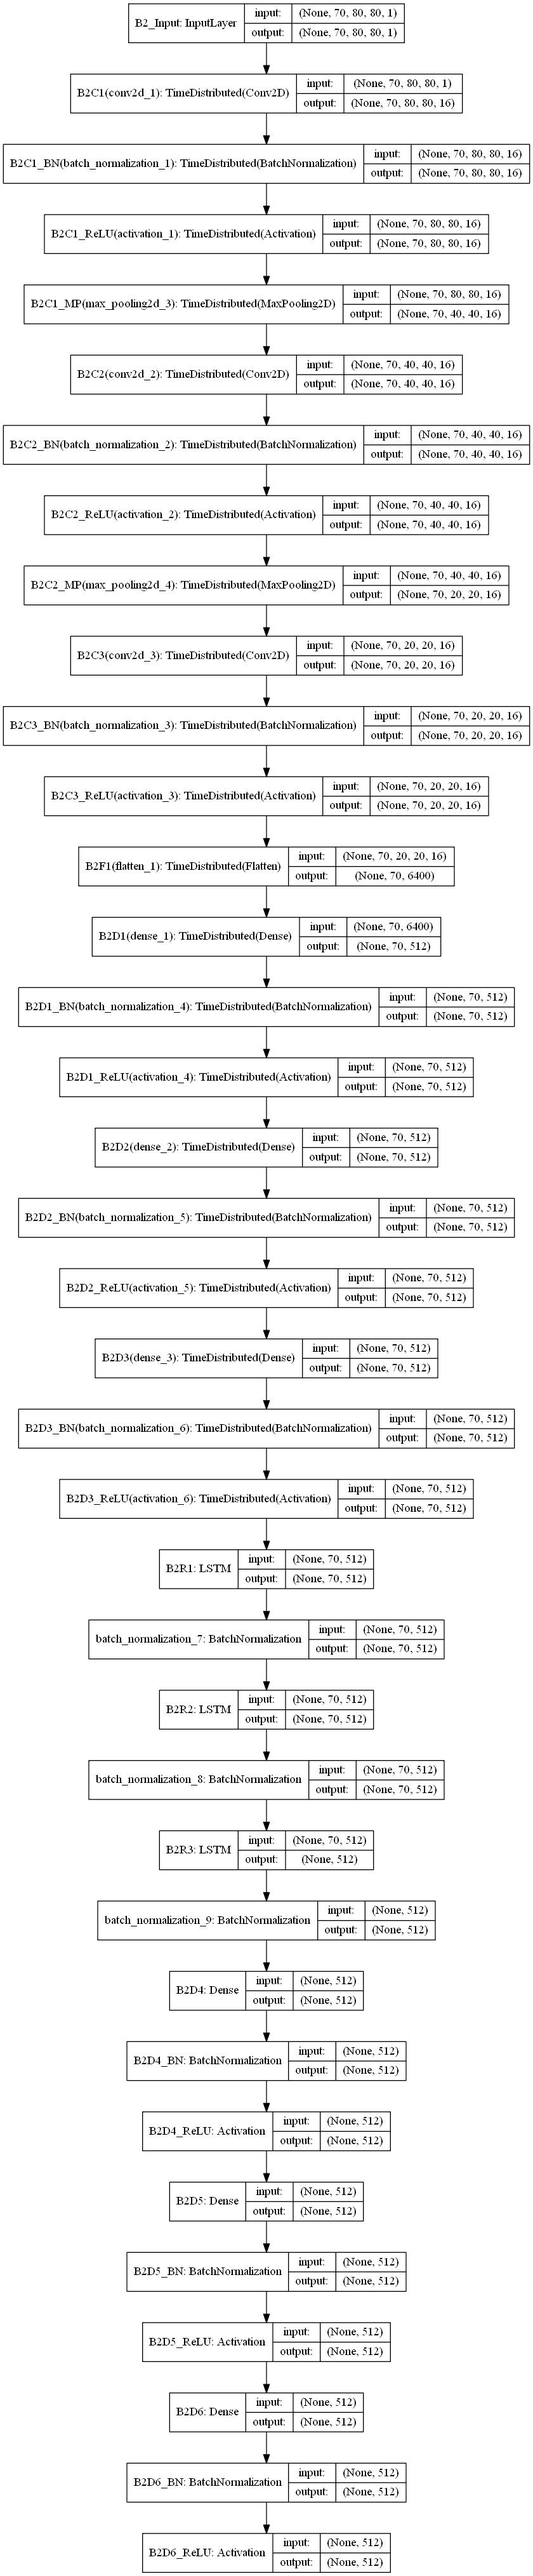
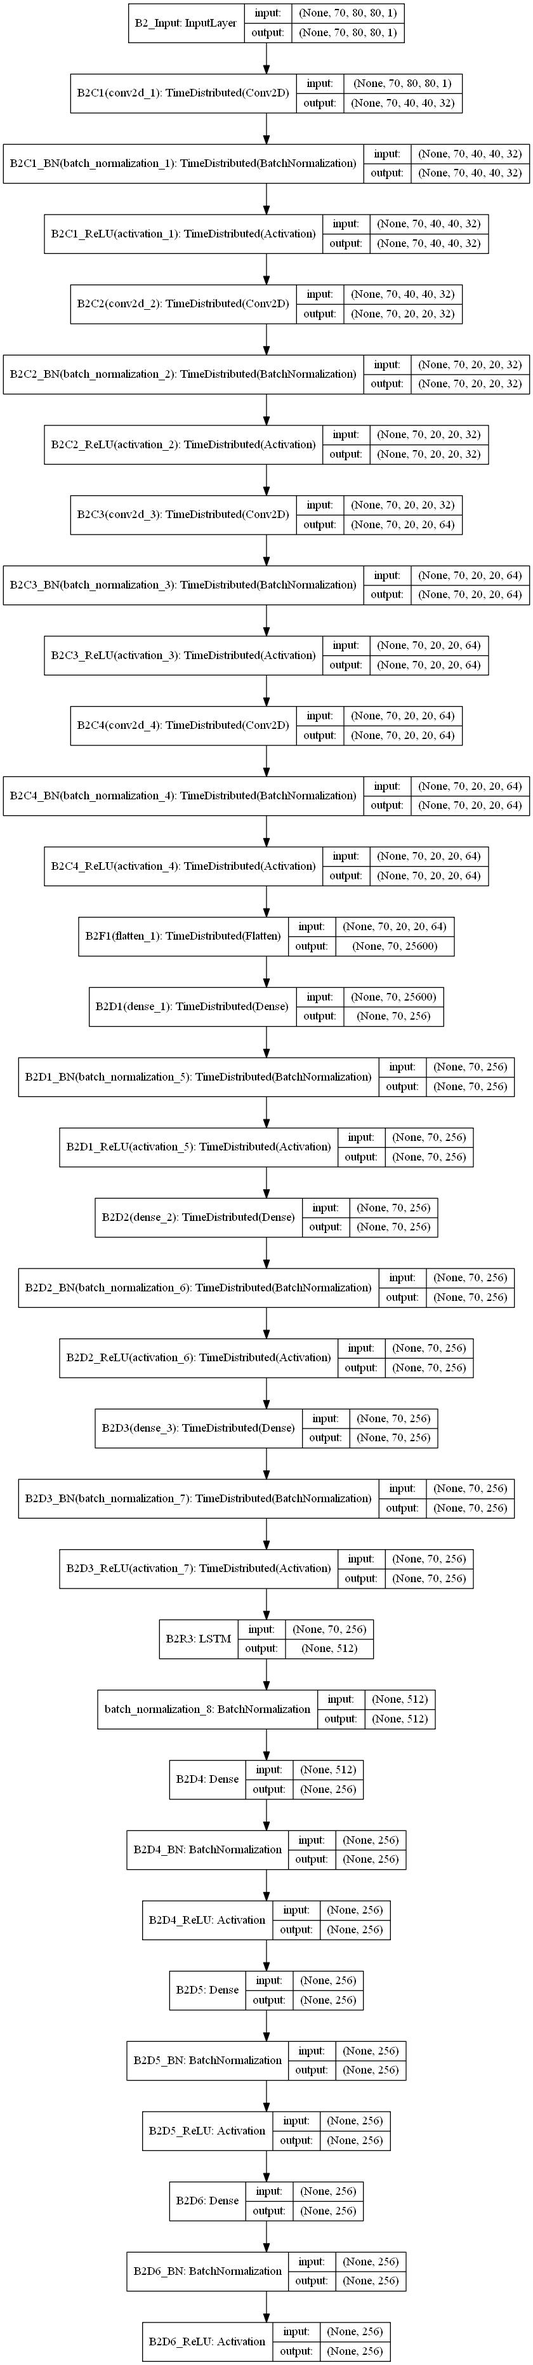
b2 testing

diff --git a/Project_DNN/scripts/models.py b/Project_DNN/scripts/models.py
@@ -85,48 +85,50 @@ def Layer_B2():
     b2_dropout = 0.00
 
     b2_input = Input(shape=(70, 80, 80, 1), name='B2_Input')
-    b2 = TimeDistributed(Conv2D(filters=16,
-                                kernel_size=3,
-                                strides=1,
+    b2 = TimeDistributed(Conv2D(filters=32,
+                                kernel_size=5,
+                                strides=2,
                                 padding='same',
                                 data_format='channels_last'),
                                 name='B2C1')(b2_input)
     b2 = _add_BN_ReLU_SpDO_TD(b2, b2_dropout)
-    b2 = TimeDistributed(MaxPool2D(), name='B2C1_MP')(b2)
-    b2 = TimeDistributed(Conv2D(filters=16,
-                                kernel_size=3,
-                                strides=1,
+    #b2 = TimeDistributed(MaxPool2D(), name='B2C1_MP')(b2)
+    b2 = TimeDistributed(Conv2D(filters=32,
+                                kernel_size=5,
+                                strides=2,
                                 padding='same'),
                                 name='B2C2')(b2)
     b2 = _add_BN_ReLU_SpDO_TD(b2, b2_dropout)
-    b2 = TimeDistributed(MaxPool2D(), name='B2C2_MP')(b2)
-    b2 = TimeDistributed(Conv2D(filters=16,
+    #b2 = TimeDistributed(MaxPool2D(), name='B2C2_MP')(b2)
+    b2 = TimeDistributed(Conv2D(filters=64,
                                 kernel_size=3,
                                 strides=1,
                                 padding='same',
                                 activation='relu'),
                                 name='B2C3')(b2)
     b2 = _add_BN_ReLU_SpDO_TD(b2, b2_dropout)
+    #b2 = TimeDistributed(MaxPool2D(), name='B2C2_MP')(b2)
+    b2 = TimeDistributed(Conv2D(filters=64,
+                                kernel_size=3,
+                                strides=1,
+                                padding='same',
+                                activation='relu'),
+                                name='B2C4')(b2)
+    b2 = _add_BN_ReLU_SpDO_TD(b2, b2_dropout)
     b2 = TimeDistributed(Flatten(), name="B2F1")(b2)
-
-    b2 = TimeDistributed(Dense(512), name="B2D1")(b2)
+    b2 = TimeDistributed(Dense(256), name="B2D1")(b2)
     b2 = _add_BN_ReLU_DO_TD(b2, b2_dropout)
-    b2 = TimeDistributed(Dense(512), name="B2D2")(b2)
+    b2 = TimeDistributed(Dense(256), name="B2D2")(b2)
     b2 = _add_BN_ReLU_DO_TD(b2, b2_dropout)
-    b2 = TimeDistributed(Dense(512), name="B2D3")(b2)
+    b2 = TimeDistributed(Dense(256), name="B2D3")(b2)
     b2 = _add_BN_ReLU_DO_TD(b2, b2_dropout)
-    b2 = LSTM(512, return_sequences=True, name='B2R1')(b2)
+    b2 = LSTM(512, name='B2R3')(b2)    
     b2 = BatchNormalization()(b2)
-    b2 = LSTM(512, return_sequences=True,  name='B2R2')(b2)
-    b2 = BatchNormalization()(b2)
-    b2 = LSTM(512, name='B2R3')(b2)
-    
-    b2 = BatchNormalization()(b2)
-    b2 = Dense(512, name='B2D4')(b2)
+    b2 = Dense(256, name='B2D4')(b2)
     b2 = _add_BN_ReLU_DO(b2, b2_dropout)
-    b2 = Dense(512, name='B2D5')(b2)
+    b2 = Dense(256, name='B2D5')(b2)
     b2 = _add_BN_ReLU_DO(b2, b2_dropout)
-    b2 = Dense(512, name='B2D6')(b2)
+    b2 = Dense(256, name='B2D6')(b2)
     b2 = _add_BN_ReLU_DO(b2, b2_dropout)
     
     b2_output = b2

diff --git a/Project_DNN/scripts/dataFormater.py b/Project_DNN/scripts/dataFormater.py
@@ -140,7 +140,7 @@ def ROI_loadDataListAll(rootPath, isShow, isShuffle):
 
     spointList, roiSampleList, labelList = \
         _ROI_loadDataList(samplePathList, isShow)
-    
+
     if isShuffle:
         spointList, roiSampleList, labelList = \
             shuffleDataset(spointList, roiSampleList, labelList)
@@ -159,9 +159,11 @@ def _ROI_loadDataList(samplePathList, isShow):
     for path in samplePathList:
         spoint, images, label = \
             ROI_loadData(path, isShow)
-        spointSamples.append(spoint)
-        imageSamples.append(images)
-        labelSamples.append(label)
+
+        if len(images) is not 0:
+            spointSamples.append(spoint)
+            imageSamples.append(images)
+            labelSamples.append(label)
     
     spointSamples = np.array(spointSamples)
     imageSamples = np.array(imageSamples)

diff --git a/Project_DNN/do_Learning.py b/Project_DNN/do_Learning.py
@@ -38,7 +38,7 @@ dirPath_test = Path.get('test')
 
 print('Loading Train Samples : ')
 spointList_train, roiSampleList_train, labelList_train = \
-    df.ROI_loadDataListAll(dirPath_train, isShow=False, isShuffle=True)
+    df.ROI_loadDataListAll(dirPath_train, isShow=False, isShuffle=False)
 print('Loading Test Samples : ')
 spointList_test, roiSampleList_test, labelList_test = \
     df.ROI_loadDataListAll(dirPath_test, isShow=False, isShuffle=False)
